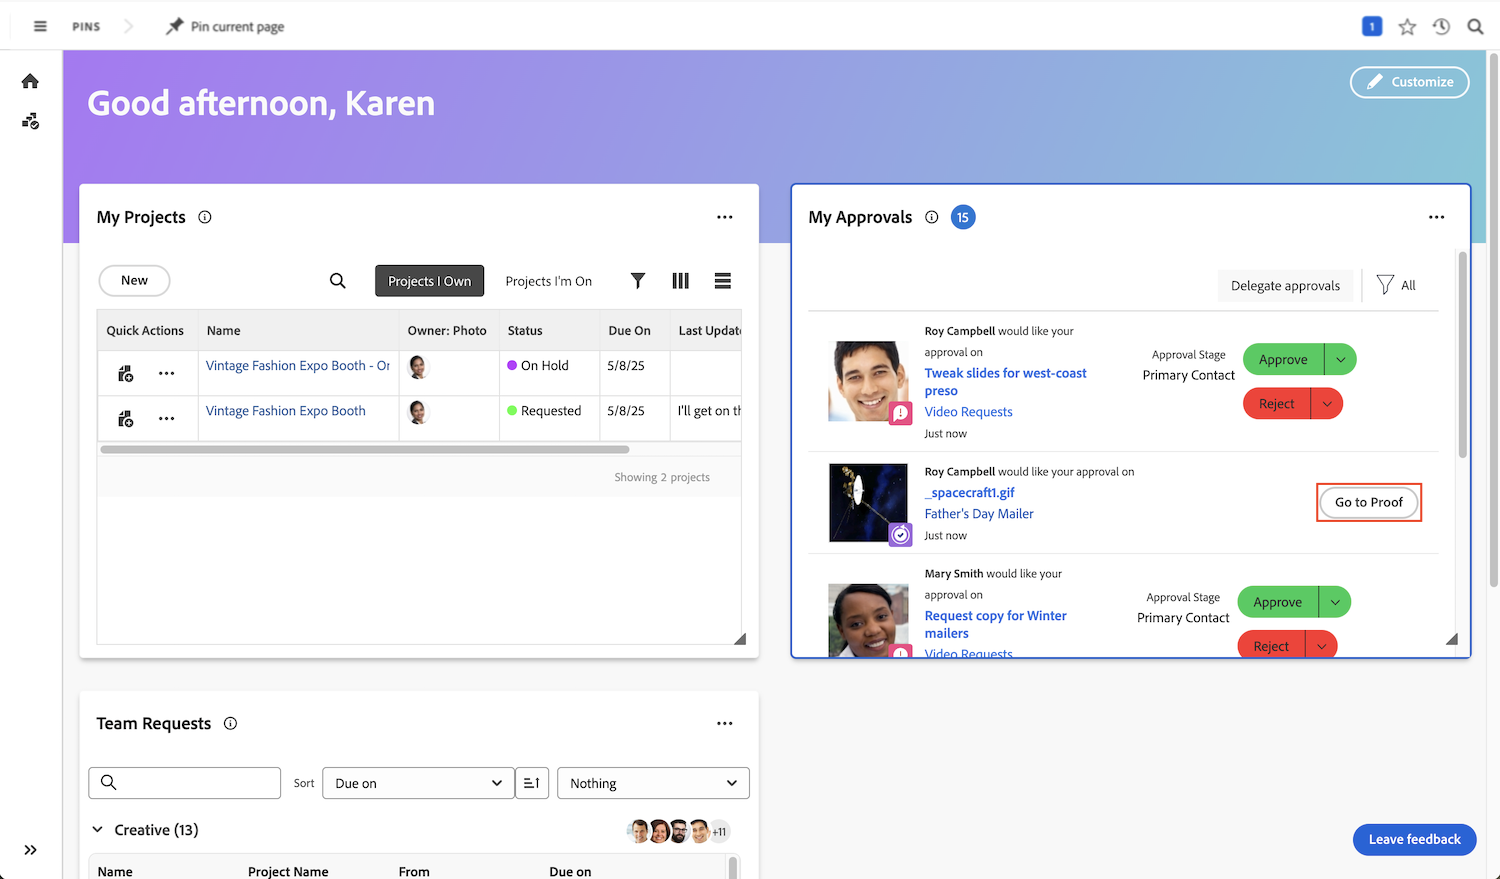
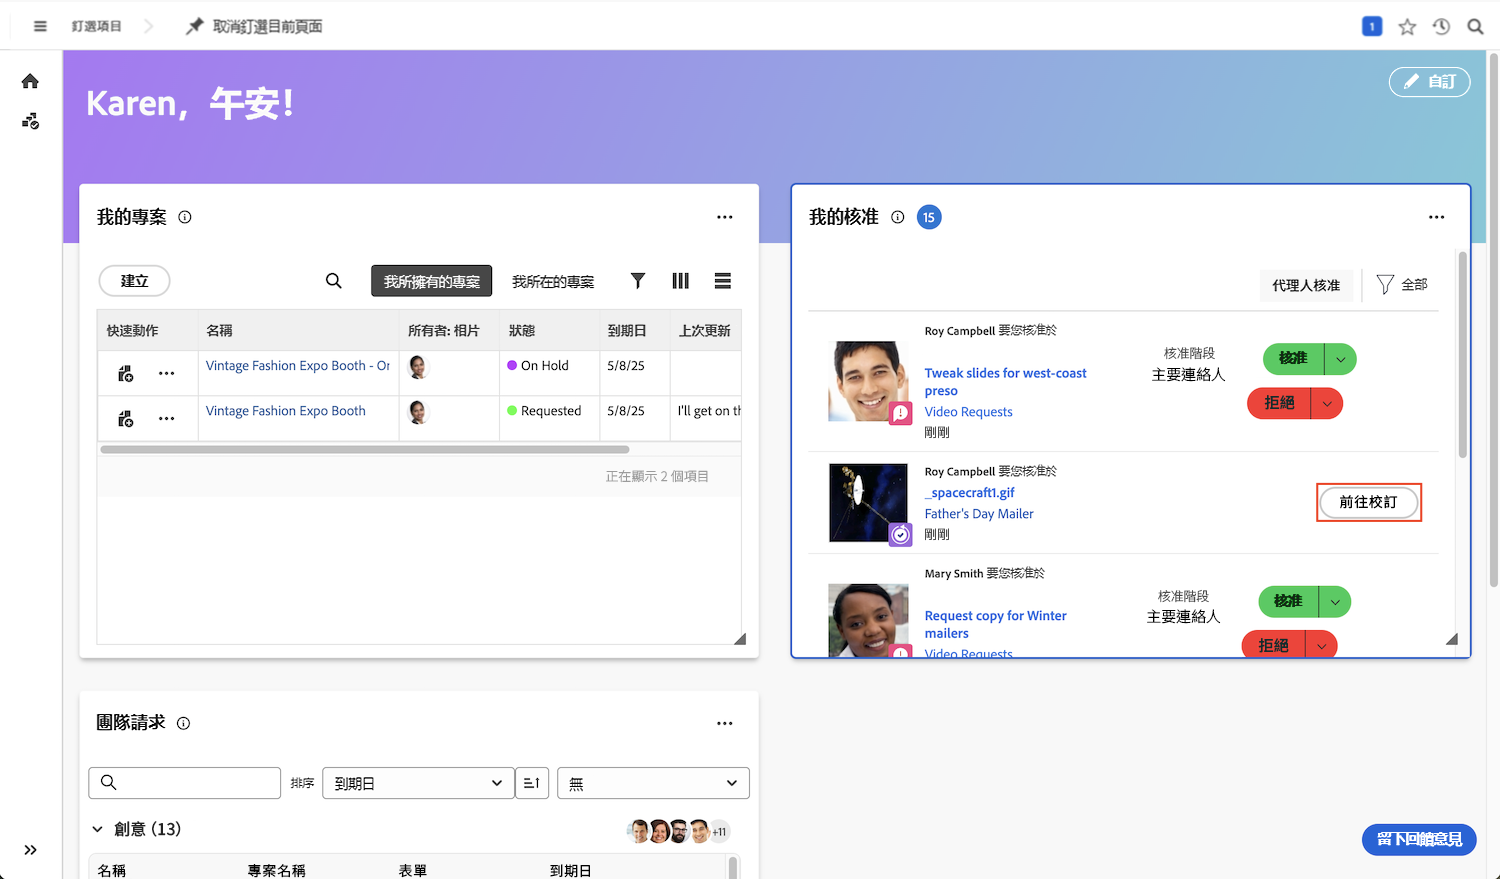
Updated by task 'AUTO_HANDOFF_1740431791544'  Changes for core/source commit https://git.corp.adobe.com/AdobeDocs/workfront-learn.en/commit/a64a8cd80e912f54fecae267fc94d3190d9fb85c

diff --git a/help/workfront-proof/review-and-approve-work/review-and-approve-a-proof.md b/help/workfront-proof/review-and-approve-work/review-and-approve-a-proof.md
@@ -12,9 +12,9 @@ jira: KT-8841
 exl-id: fd6e008c-a162-49fa-9f7e-ab7333165dad
 doc-type: video
 source-git-commit: 697957807d4ca95bb4e5ab79f24f5e31252585c3
-workflow-type: tm+mt
+workflow-type: ht
 source-wordcount: '727'
-ht-degree: 91%
+ht-degree: 100%
 
 ---
 
@@ -47,13 +47,13 @@ ht-degree: 91%
 
 ### 從[!UICONTROL 首頁]開啟校訂
 
-如果您在[!DNL Workfront]中工作且被要求核准校訂，您將會在[!DNL Workfront] [!UICONTROL 首頁]的[!UICONTROL 我的核准] Widget中找到指派。
+若您正使用 [!DNL Workfront] 並收到核准校訂的要求，您會在 [!DNL Workfront] [!UICONTROL 首頁]的「[!UICONTROL 我的核准]」小工具中看到指派。
 
-![在[!DNL Workfront] [!UICONTROL 首頁].](assets/open-proof-from-home.png)中[!UICONTROL 我的核准]介面工具集的影像
+![[!DNL Workfront][!UICONTROL  首頁]上「[!UICONTROL 我的核准] 」小工具的影像。](assets/open-proof-from-home.png)
 
-值得注意的是，唯有在您被指派負責核准時，校訂才會出現在 [!DNL Workfront] [!UICONTROL 首頁]。如果您剛才要求您僅檢閱校訂，則它不會在[!DNL Workfront] [!UICONTROL 首頁]中顯示。
+值得注意的是，唯有在您被指派負責核准時，校訂才會出現在 [!DNL Workfront] [!UICONTROL 首頁]。若您僅需檢閱校訂，便不會顯示在 [!DNL Workfront] [!UICONTROL 首頁]上。
 
-按一下[!UICONTROL 前往校訂]連結，將其開啟到校訂檢視器中。
+按一下「[!UICONTROL 前往校訂]」連結以在校訂檢視器內開啟。
 
 根據貴組織的校訂和專案工作流程，您可能會在 [!DNL Workfront] [!UICONTROL 首頁]看到任務指派而不是校訂核准請求。在這種情況下，您會在任務本身的「[!UICONTROL 文件]」區段開啟校訂 (請參閱下方指示)。
 

diff --git a/help/portfolios-and-programs/prioritize-and-manage-work-with-portfolios.md b/help/portfolios-and-programs/prioritize-and-manage-work-with-portfolios.md
@@ -1,6 +1,6 @@
 ---
 title: 使用[!UICONTROL 專案組合最佳化工具]來確認工作的優先順序並進行管理
-description: 瞭解如何使用[!UICONTROL Portfolio Optimizer]，比較專案組合內的專案並排定其優先順序。
+description: 瞭解如何使用[!UICONTROL 專案組合最佳化工具]針對專案組合中的專案進行比較並制定優先排序。
 activity: use
 team: Technical Marketing
 feature: Strategic Planning
@@ -13,23 +13,23 @@ role: User
 level: Intermediate
 exl-id: b8b91ae8-f0e1-4cab-bf2c-6b8ca9746ea3
 source-git-commit: adb11deb325b2537dabeb80461f8c9ecd059e003
-workflow-type: tm+mt
+workflow-type: ht
 source-wordcount: '75'
-ht-degree: 49%
+ht-degree: 100%
 
 ---
 
 # 使用[!UICONTROL 專案組合最佳化工具]來確認工作的優先順序並進行管理
 
-觀看這段影片，您將了解如何：
+觀看這段影片，您將瞭解如何：
 
-* 提交業務案例以供核准和優先處理
-* 使用[!UICONTROL Portfolio Optimizer]最佳化優先順序
-* 設定並檢視專案中的專案優先順序欄位
+* 提交業務案例以供核准及制定優先排序
+* 使用[!UICONTROL 專案組合最佳化工具]制定最佳優先排序
+* 設定並檢視專案中的專案組合優先順序欄位
 
 >[!VIDEO](https://video.tv.adobe.com/v/3446275/?quality=12&learn=on&enablevpops)
 
 ## 有關此主題的推薦教學課程
 
 * [了解專案組合](/help/portfolios-and-programs/overview-of-adobe-workfront-portfolios.md)
-* [了解[!UICONTROL 業務案例]](/help/portfolios-and-programs/introduction-to-the-business-case.md)
+* [瞭解[!UICONTROL 業務案例]](/help/portfolios-and-programs/introduction-to-the-business-case.md)
